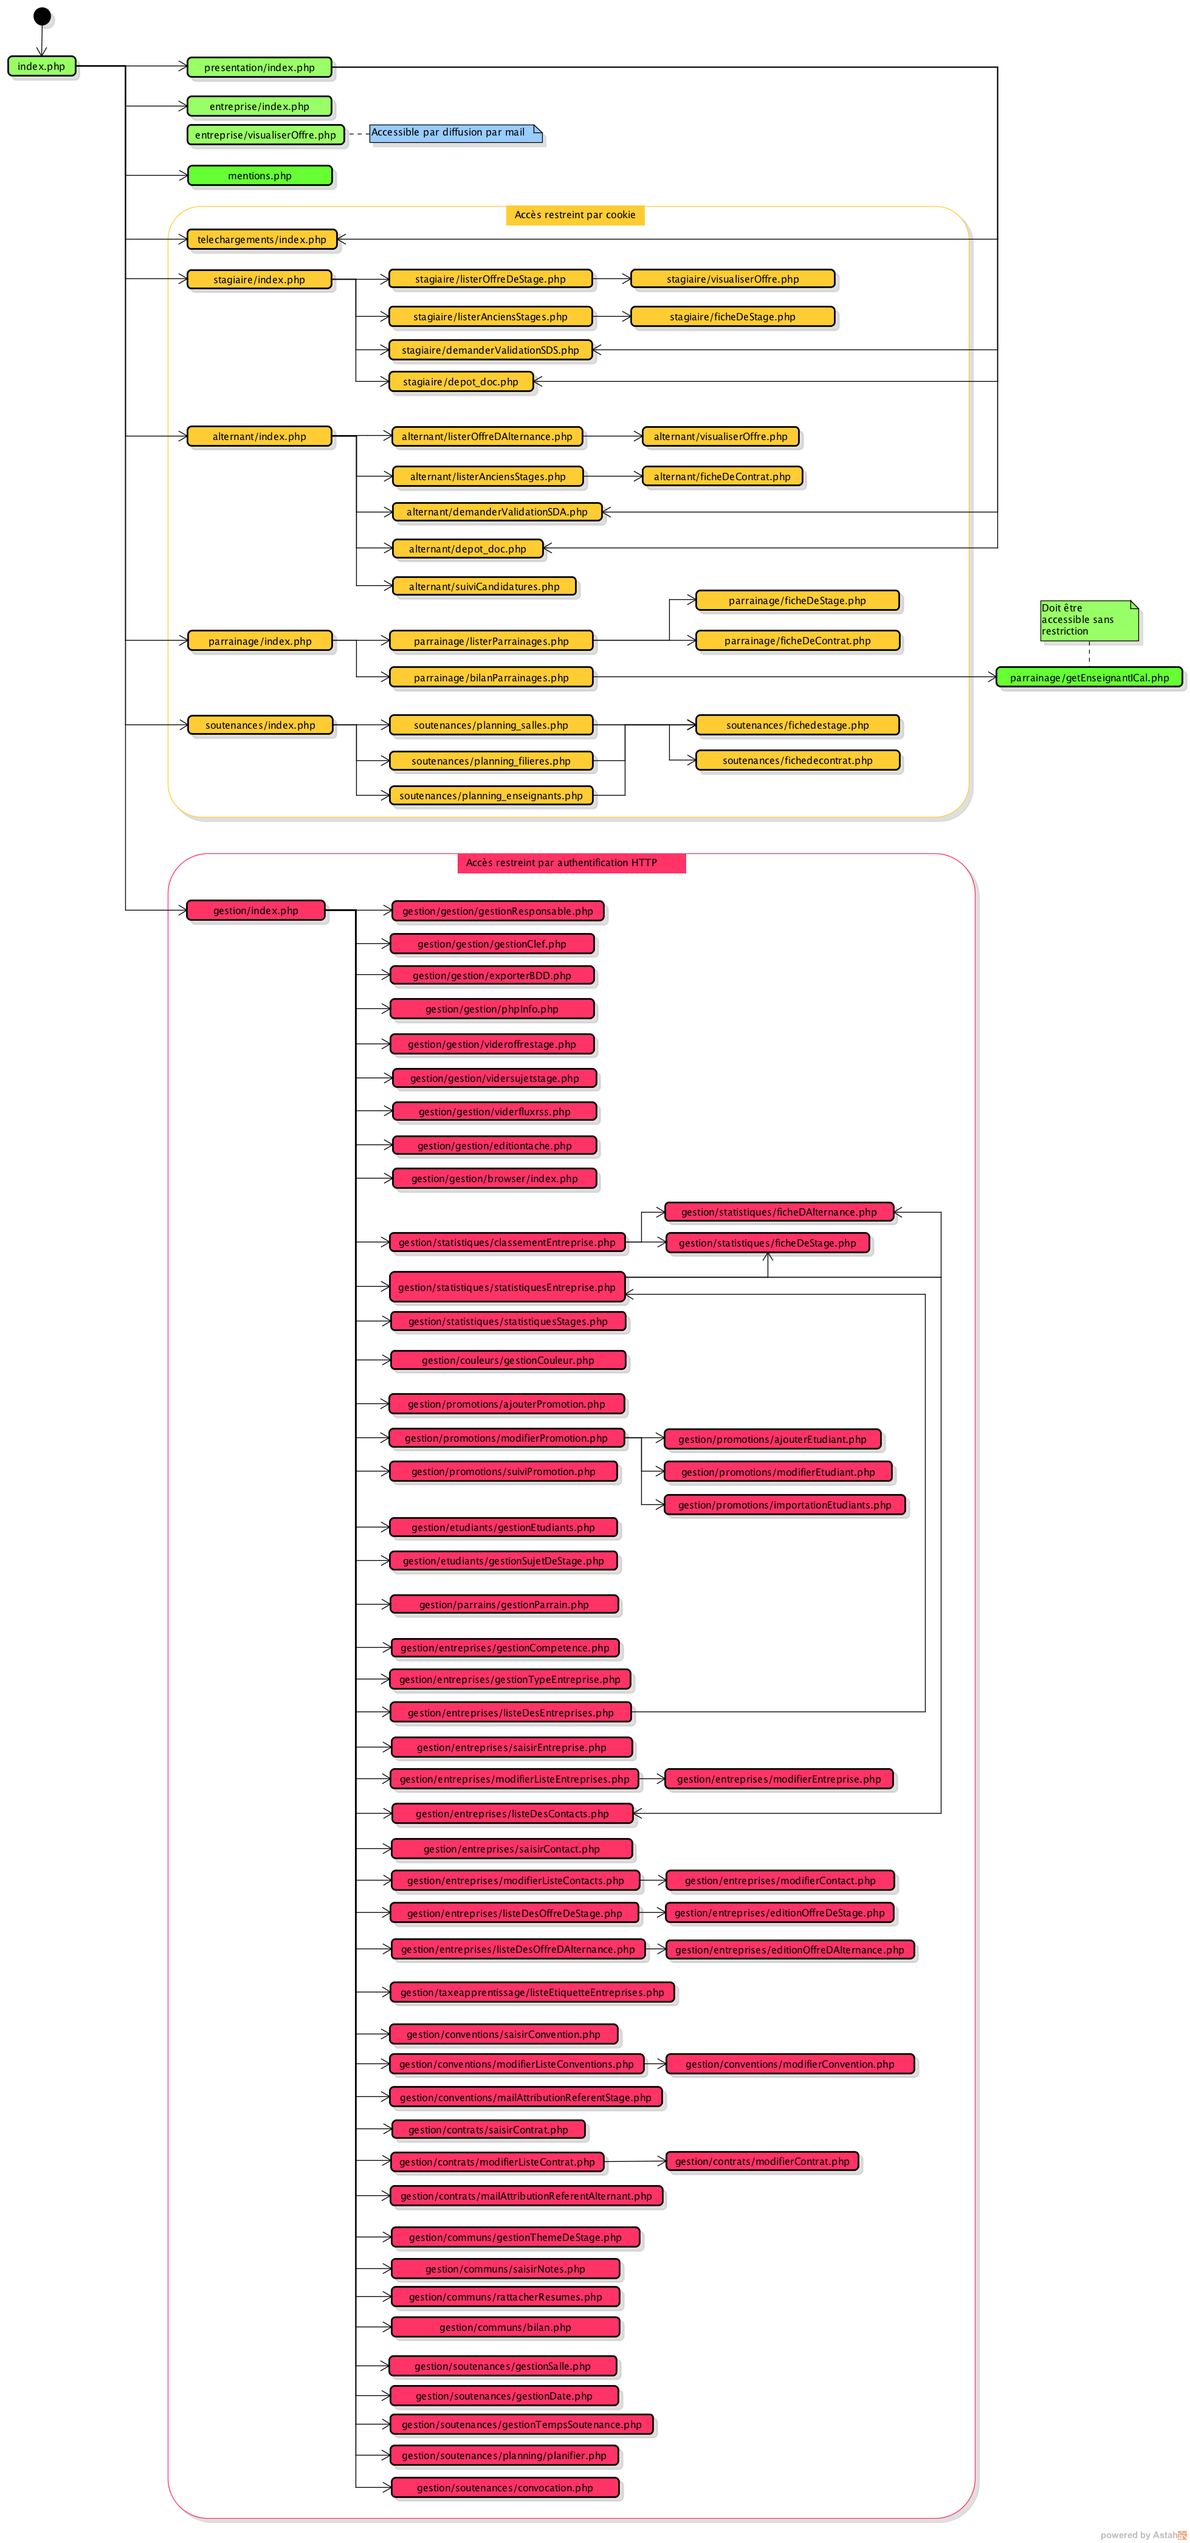
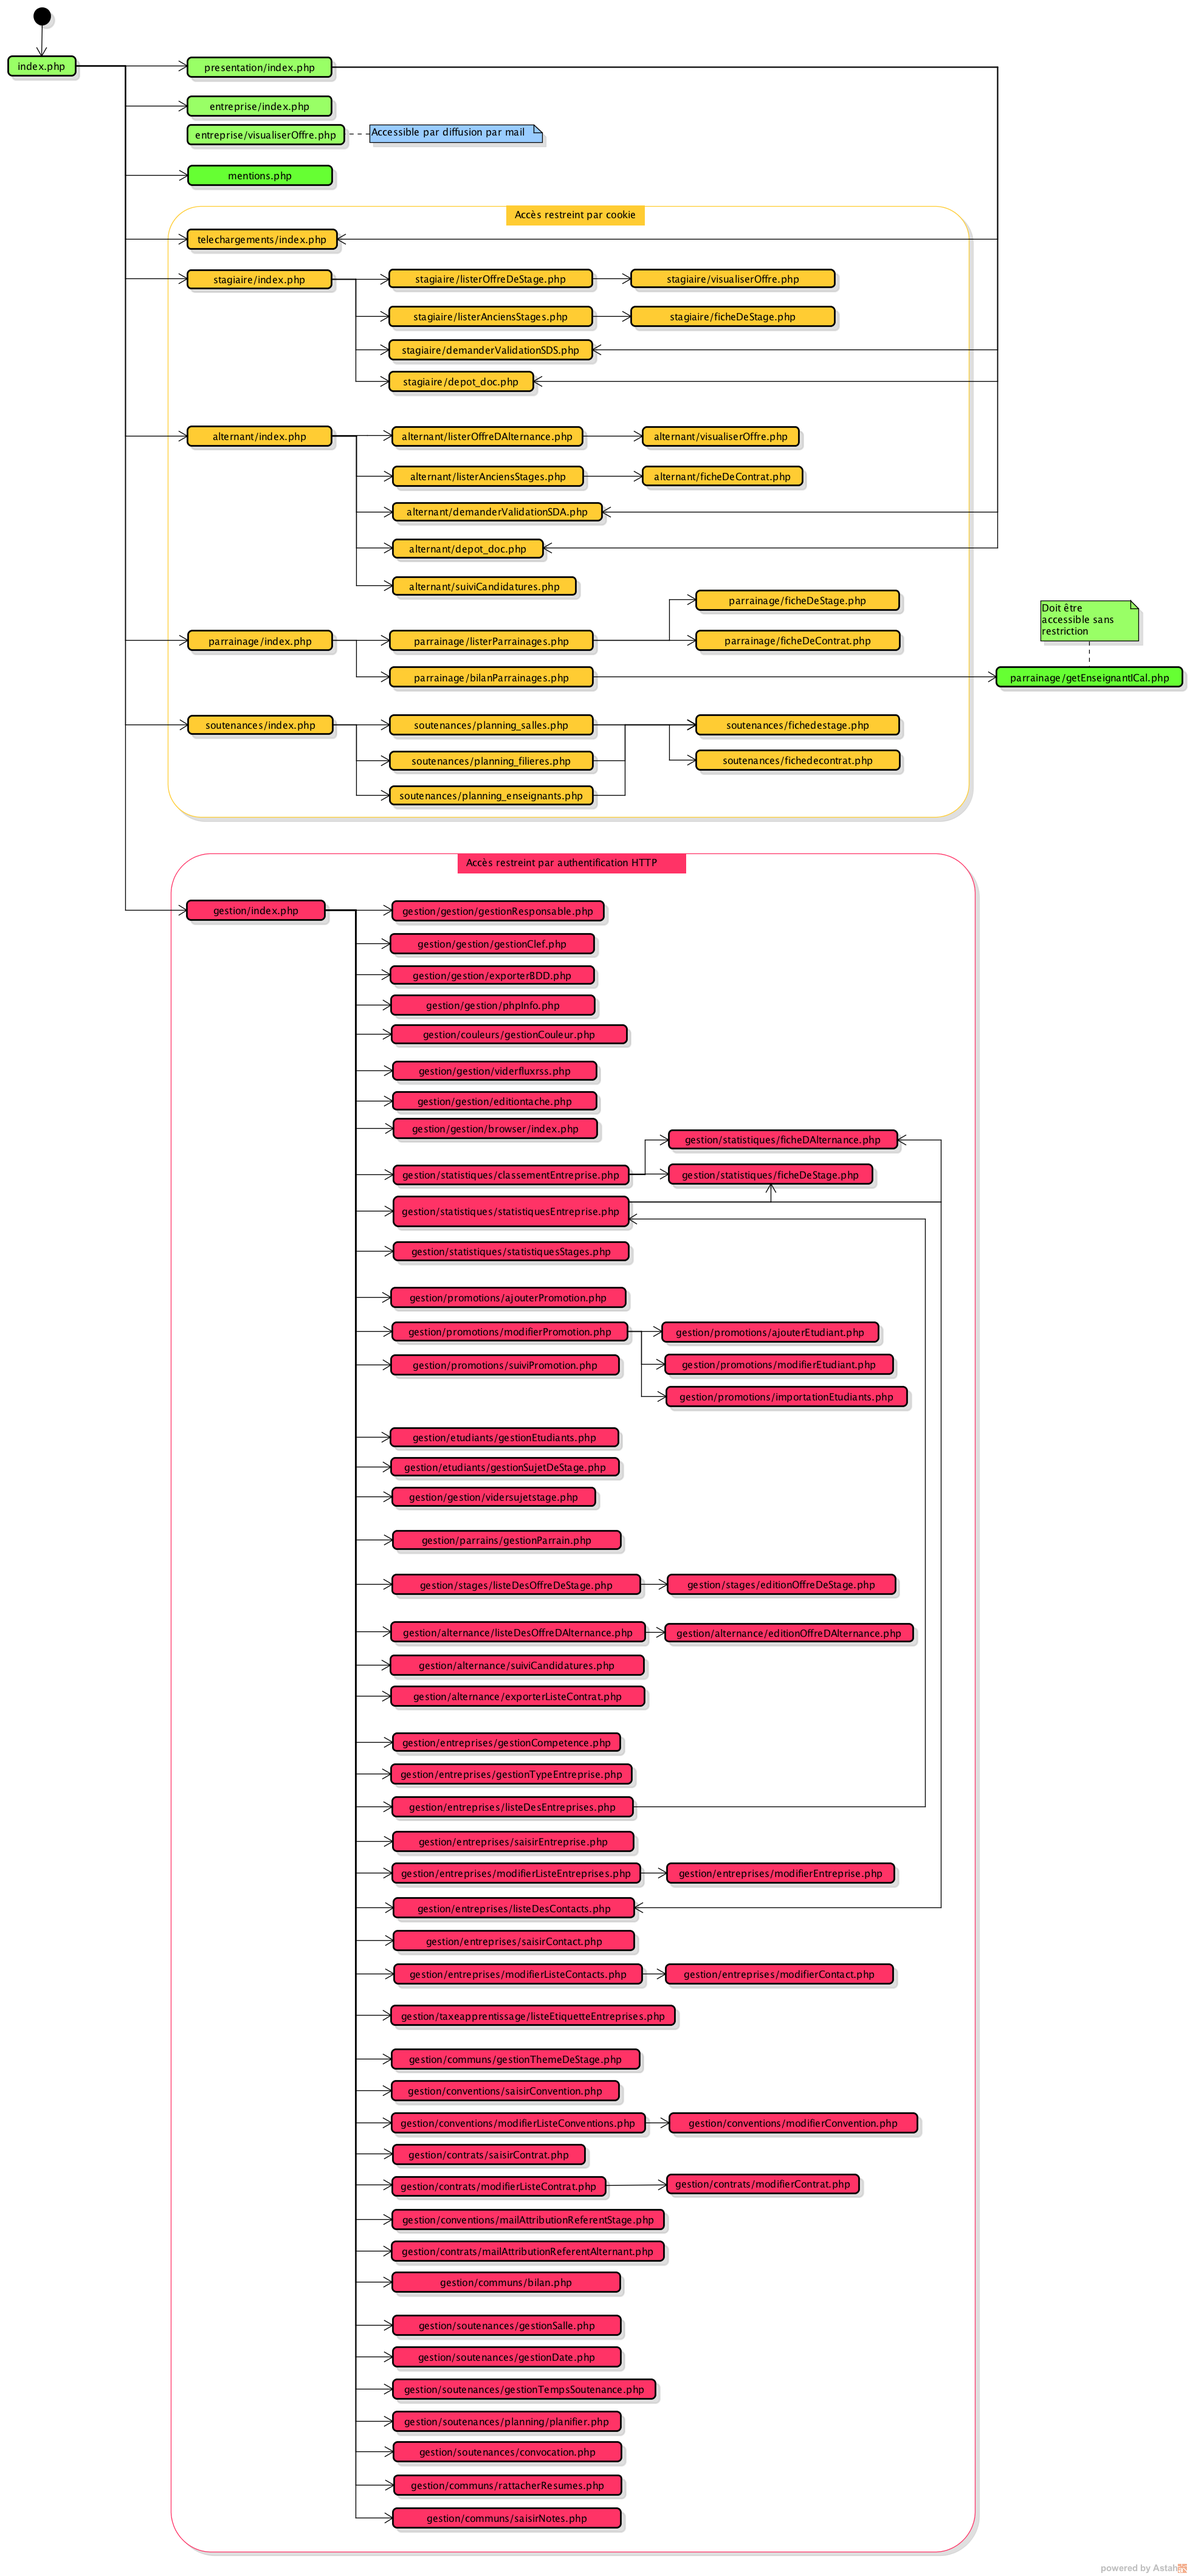
Déplacement de scripts (partie gestion du site)

diff --git a/classes/ihm/Gestion_IHM.php b/classes/ihm/Gestion_IHM.php
@@ -158,7 +158,7 @@ class Gestion_IHM {
 			    <tr>
 				<td>
 				    <ul>
-					<li><a href="./entreprises/listeDesOffreDeStage.php">Valider/Editer des offres de stage</a></li>
+					<li><a href="./stages/listeDesOffreDeStage.php">Valider/Editer des offres de stage</a></li>
 				    </ul>
 				</td>
 			    </tr>
@@ -172,9 +172,9 @@ class Gestion_IHM {
 			    <tr>
 				<td>
 				    <ul>
-					<li><a href="./entreprises/listeDesOffreDAlternance.php">Valider/Editer des offres d'alternance</a></li>
-					<li><a href="./SuiviCandidatures/SuiviCandidatures.php">Suivi des démarches alternants</a></li>
-					<li><a href="./exportation/exportListeContrat.php">Exporter étudiant/contrat</a></li>
+					<li><a href="./alternance/listeDesOffreDAlternance.php">Valider/Editer des offres d'alternance</a></li>
+					<li><a href="./alternance/SuiviCandidatures.php">Suivi des démarches alternants</a></li>
+					<li><a href="./alternance/exportListeContrat.php">Exporter étudiant/contrat</a></li>
 				    </ul>
 				</td>
 			    </tr>
